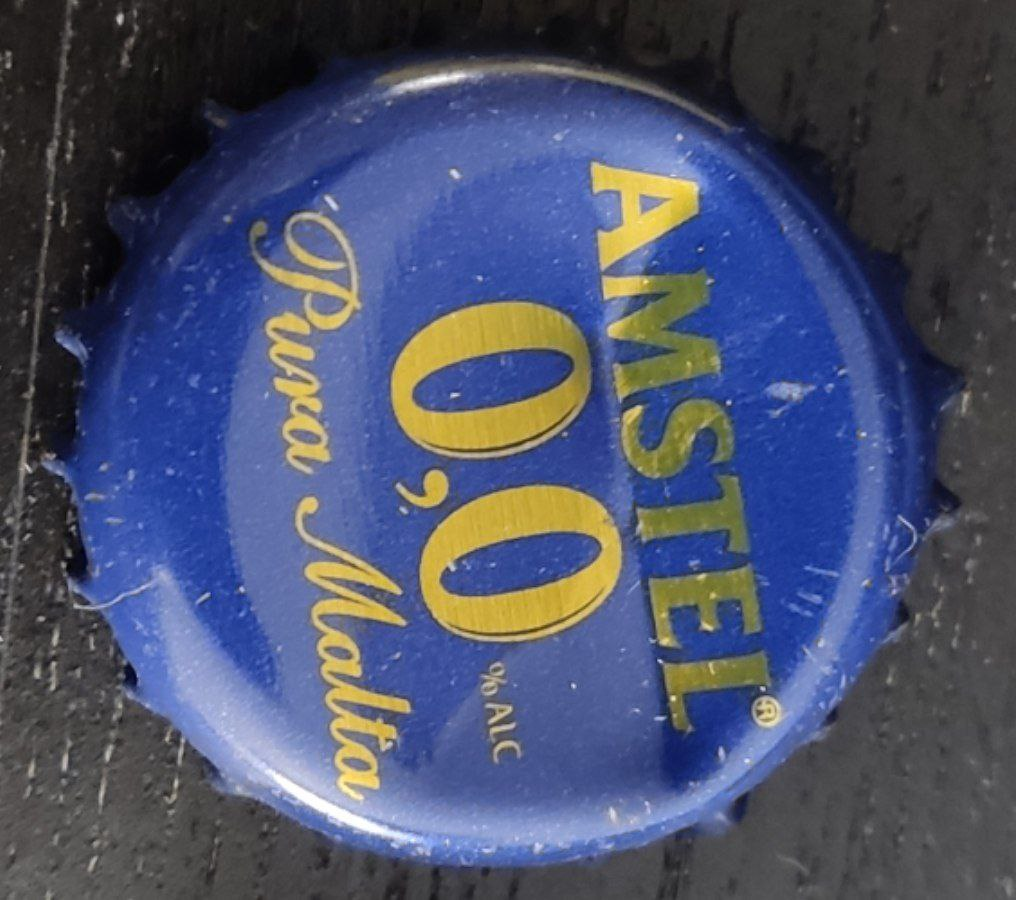
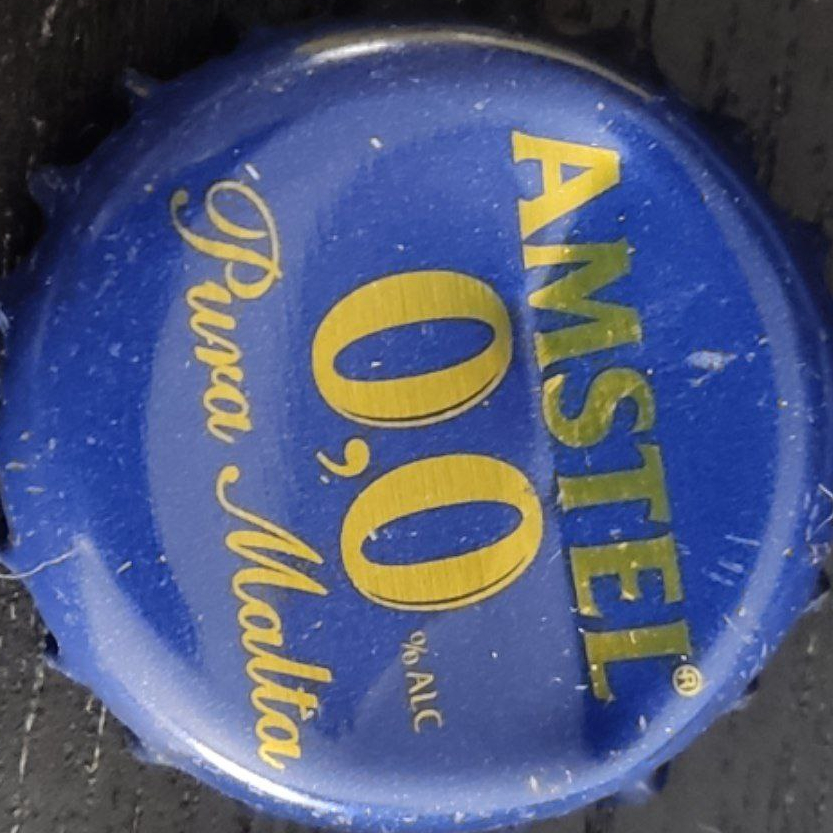
Changes on resize

diff --git a/aux_scripts.py b/aux_scripts.py
@@ -35,3 +35,18 @@ def get_mid_point(p1: tuple[int], p2: tuple[int]) -> tuple:
 
 def rgb_to_bgr(rgb):
     return tuple((rgb[2], rgb[1], rgb[0]))
+
+
+def get_name_from_path(path: str) -> str:
+    return path.split("/")[-1]
+
+
+def resize_image(path_to_image, width, height):
+    src = read_img(path_to_image)
+    resized = cv2.resize(src, (width, height))
+    name = get_name_from_path(path_to_image)
+    cv2.imwrite("./resized_caps_imgs/" + name, resized)
+
+
+if __name__ == '__main__':
+    resize_image(r"./caps_imgs/amstel00.jpg", 100, 100)

diff --git a/main.py b/main.py
@@ -8,7 +8,6 @@ def look_in_all_images(photo_str: str):
     photo_img = read_img(photo_str)
     det_manager = DetectionManager(photo_img)
     squares = det_manager.detect_non_overlapping_squares()
-    #squares = det_manager.get_all_squares()
     det_manager.draw_squares_detections(squares)
     det_manager.draw_percentage(squares)
     det_manager.draw_name(squares)
